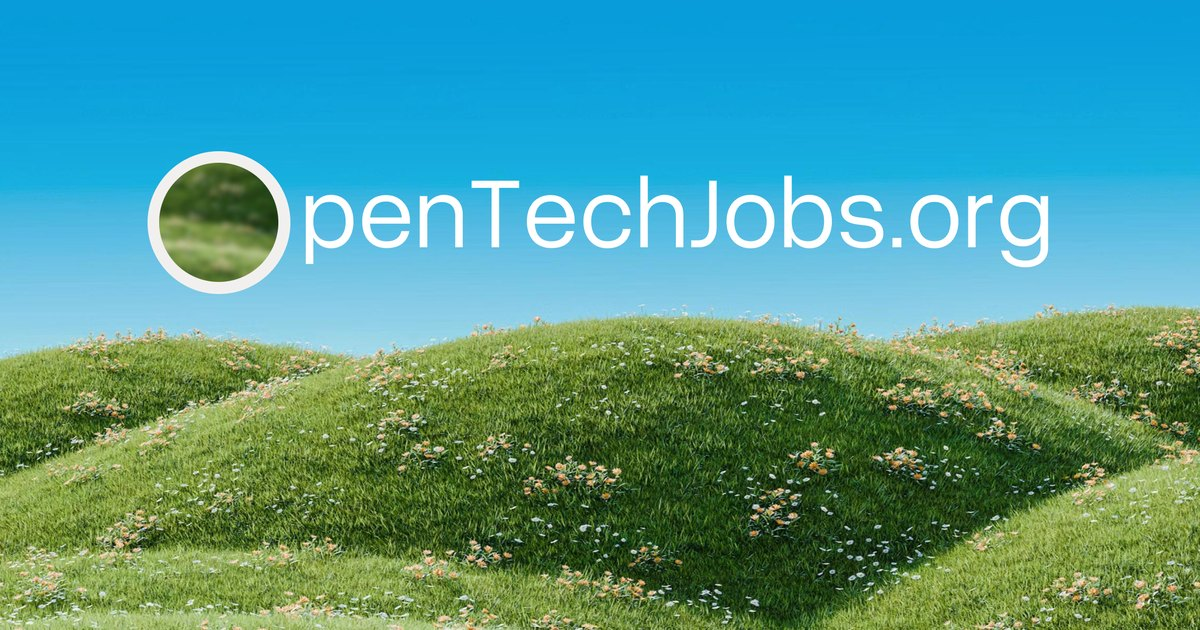
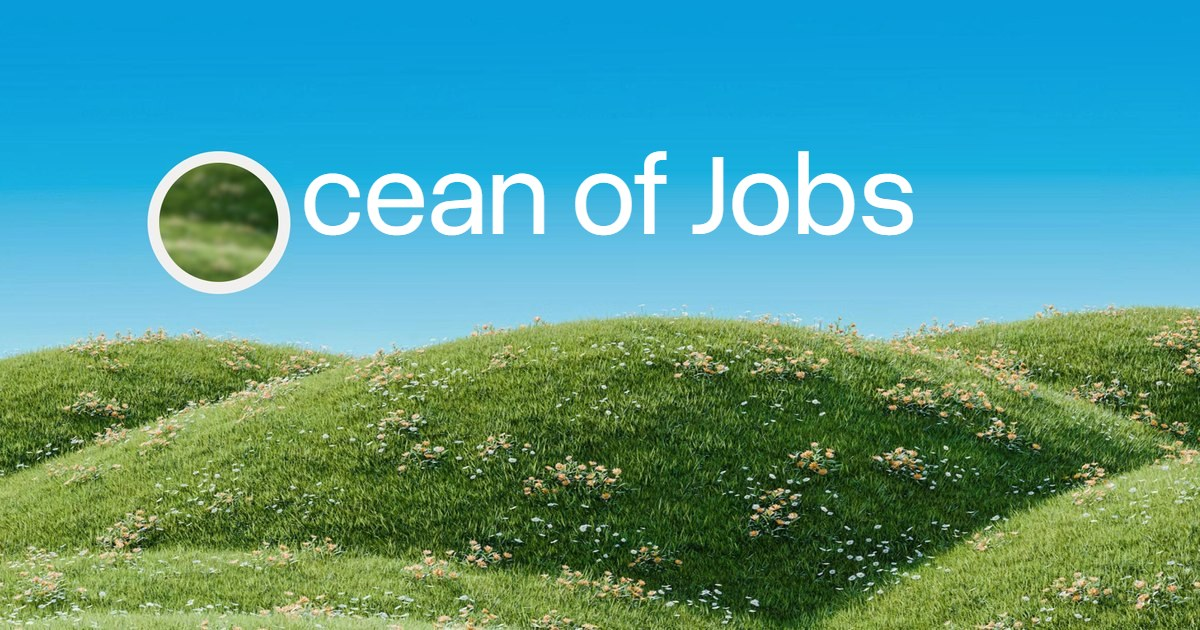
The share card says Ocean of Jobs, and the unused wordmark goes
og-hills.jpg is re-rendered: the old wordmark erased from the sky
(scripts/brand/og-hills-blank.png, filled row by row from clear sky
either side) and Ocean of Jobs set in Overused Grotesk beside the
same ring, which reads as its O. tests/e2e/render_og.mjs rebuilds it
from scripts/brand/og.html. logo-horizontal.png spelled
OpenTechJobs.org and nothing referenced it.

scripts/cf.py is the small Cloudflare API client the move uses. It
reads CLOUDFLARE_API_TOKEN from .env and never prints it.

Changed region(s): [[0.2467, 0.2413, 0.8942, 0.4222]]

diff --git a/scripts/brand/og.html b/scripts/brand/og.html
@@ -1,0 +1,9 @@
+<!doctype html>
+<meta charset="utf-8">
+<style>
+  @font-face { font-family: "Overused Grotesk"; src: url("../../frontend/fonts/OverusedGrotesk-VF.woff2") format("woff2-variations"); font-weight: 300 900; }
+  html, body { margin: 0; }
+  .card { position: relative; width: 1200px; height: 630px; background: url("og-hills-blank.png"); }
+  .word { position: absolute; left: 300px; top: 137px; font: 400 118px/1 "Overused Grotesk"; letter-spacing: -0.01em; color: #fff; white-space: nowrap; }
+</style>
+<div class="card"><div class="word">cean of Jobs</div></div>

diff --git a/scripts/cf.py b/scripts/cf.py
@@ -1,0 +1,40 @@
+"""A thin Cloudflare API client for the zone moves, reading the token
+from .env (CLOUDFLARE_API_TOKEN) and never printing it.
+
+    python scripts/cf.py GET /zones/<id>/dns_records
+    python scripts/cf.py POST /zones/<id>/dns_records '{"type":"CNAME",...}'
+"""
+import json
+import sys
+import urllib.request
+from pathlib import Path
+
+ROOT = Path(__file__).resolve().parent.parent
+ZONES = {"oceanofjobs.com": "820df5408d0b7e9498a9eacc7584b8ce",
+         "opentechjobs.org": "b3ba4888acc47a656eb070aca1a65919"}
+
+
+def token() -> str:
+    for line in (ROOT / ".env").read_text(encoding="utf-8").splitlines():
+        if line.startswith("CLOUDFLARE_API_TOKEN="):
+            return line.split("=", 1)[1].strip().strip('"')
+    sys.exit("no CLOUDFLARE_API_TOKEN in .env")
+
+
+def call(method: str, path: str, body=None) -> dict:
+    for name, zid in ZONES.items():
+        path = path.replace("{" + name + "}", zid)
+    req = urllib.request.Request(
+        "https://api.cloudflare.com/client/v4" + path, method=method,
+        data=None if body is None else json.dumps(body).encode(),
+        headers={"Authorization": f"Bearer {token()}", "Content-Type": "application/json"})
+    try:
+        with urllib.request.urlopen(req, timeout=30) as r:
+            return json.load(r)
+    except urllib.error.HTTPError as e:
+        return json.load(e)
+
+
+if __name__ == "__main__":
+    body = json.loads(sys.argv[3]) if len(sys.argv) > 3 else None
+    print(json.dumps(call(sys.argv[1], sys.argv[2], body), indent=1))
